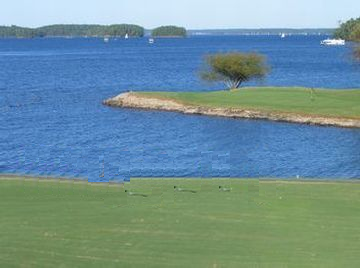
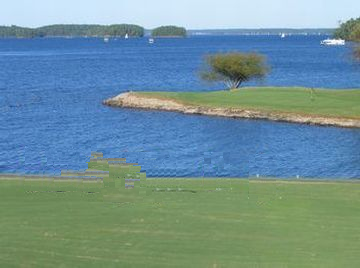
Modified patched

diff --git a/code/main.m b/code/main.m
@@ -4,16 +4,16 @@ close all;
 warning('off');
 tic;
 
-dir = '../data/c18';
+dir = '../data/c45';
 colorspace = 2; % 1 for ycbcr, 2 for hsv %other for hsv
 debug = 0;
-psi = 8;
-psi1 = psi+5;
-window = 50;
+psi = 2;
+psi1 = 15;
+window = 80;
 alpha=255;
 width=3;
 grad_window = 3;
-f = 1.5;
+f = 3;
 
 image = imread( sprintf('%s%s',dir,'_input.png'));
 % image =  imgaussfilt(image,2);
@@ -47,14 +47,14 @@ while 1
     max_p_x = 0;
     max_p_y = 0;
     max_p = -1;
-    G = grad1(image,1); %Hard coded Parameters here
+    G = grad1(image(:,:,1),1); %Hard coded Parameters here
     
 %     normals 
     [Nx, Ny] = gradient(double(~mask));
     for i = 1:n
         x = border_list(i,1);
         y = border_list(i,2);
-        cp = confidence(psi,x,y,confidence_mat); 
+        cp = confidence(psi,x,y,confidence_mat);
         dt = isophote1(x,y,G,grad_window,mask);
         
         norm_vector = [Nx(x,y), Ny(x,y)]';
@@ -72,15 +72,15 @@ while 1
             max_p = prio;
         end
     end
-    confidence_mat(max_p_x,max_p_y) = confidence(psi1,max_p_x,max_p_y,confidence_mat);
+    confidence_mat(max_p_x,max_p_y) = confidence(psi,max_p_x,max_p_y,confidence_mat);
     [min_i,min_j] = patch_fill(max_p_x,max_p_y,image,mask,window,psi1,confidence_mat);
-    cp = confidence(psi1,max_p_x,max_p_y,confidence_mat);
+    cp = confidence(psi,max_p_x,max_p_y,confidence_mat);
     
     
-    top = max_p_x-max(max_p_x-psi1,1);
-    bottom = min(max_p_x+psi1,rows)-max_p_x;
-    left = max_p_y-max(max_p_y-psi1,1);
-    right = min(max_p_y+psi1,cols)-max_p_y;
+    top = max_p_x-max(max_p_x-psi,1);
+    bottom = min(max_p_x+psi,rows)-max_p_x;
+    left = max_p_y-max(max_p_y-psi,1);
+    right = min(max_p_y+psi,cols)-max_p_y;
     
     for i=-top:bottom
         for j=-left:right
